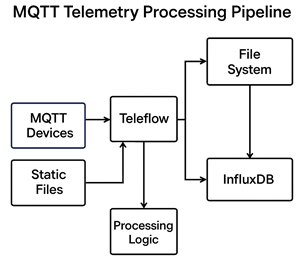
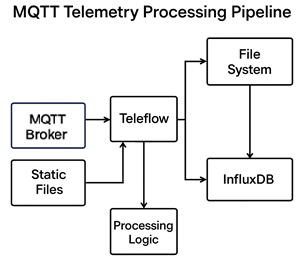
docs: add benchmark page and change text

Changed region(s): [[0.09, 0.4275, 0.24, 0.5496]]

diff --git a/docs/benchmark.md b/docs/benchmark.md
@@ -1,0 +1,40 @@
+# Benchmark Results
+
+These benchmarks were recorded on the following machine:
+
+**System Info**  
+- CPU: 11th Gen Intel(R) Core(TM) i7-11850H @ 2.50GHz  
+- RAM: 32 GB  
+- OS: Windows 11
+
+---
+
+## Performance Highlights
+
+- ⚡ Peaks of **10+ million rows/second** processed in-memory
+- 🧠 Stable performance with dynamic semaphore limiting and adaptive batching
+- 🔁 Parallelism is automatically tuned based on processing load
+
+These results showcase Teleflow's ability to handle extremely high-throughput telemetry with minimal resource usage — ideal for embedded, edge, and cloud environments.
+
+---
+
+## Raw Benchmark Sample (with sinks disabled)
+
+| Time     | Rows Processed | Total Time (ms) |
+|----------|----------------|-----------------|
+| 17:46:33 | 26,625         | 2.77            |
+| 17:46:38 | 44,943         | 3.01            |
+| 17:46:43 | 29,605         | 2.61            |
+| 17:46:48 | 21,094         | 2.51            |
+
+⚠ These results were collected with `sink.enabled = false` and `output.enabled = false` for maximum raw throughput measurement.
+
+---
+
+## Factors That Affect Performance
+
+- Output sinks (InfluxDB, file I/O)
+- Network/disk latency
+- Static vs real-time ingestion
+- Internal buffer sizes and semaphore settings

diff --git a/docs/cli.md b/docs/cli.md
@@ -45,7 +45,7 @@ teleflow generate-test --config config.yaml
 
 ---
 
-## ⚙ Global Options
+## Global Options
 
 | Option                       | Description                                      |
 |------------------------------|--------------------------------------------------|

diff --git a/docs/index.md b/docs/index.md
@@ -29,6 +29,7 @@ architecture
 config
 cli
 docker
+benchmark
 ```
 
 ---
